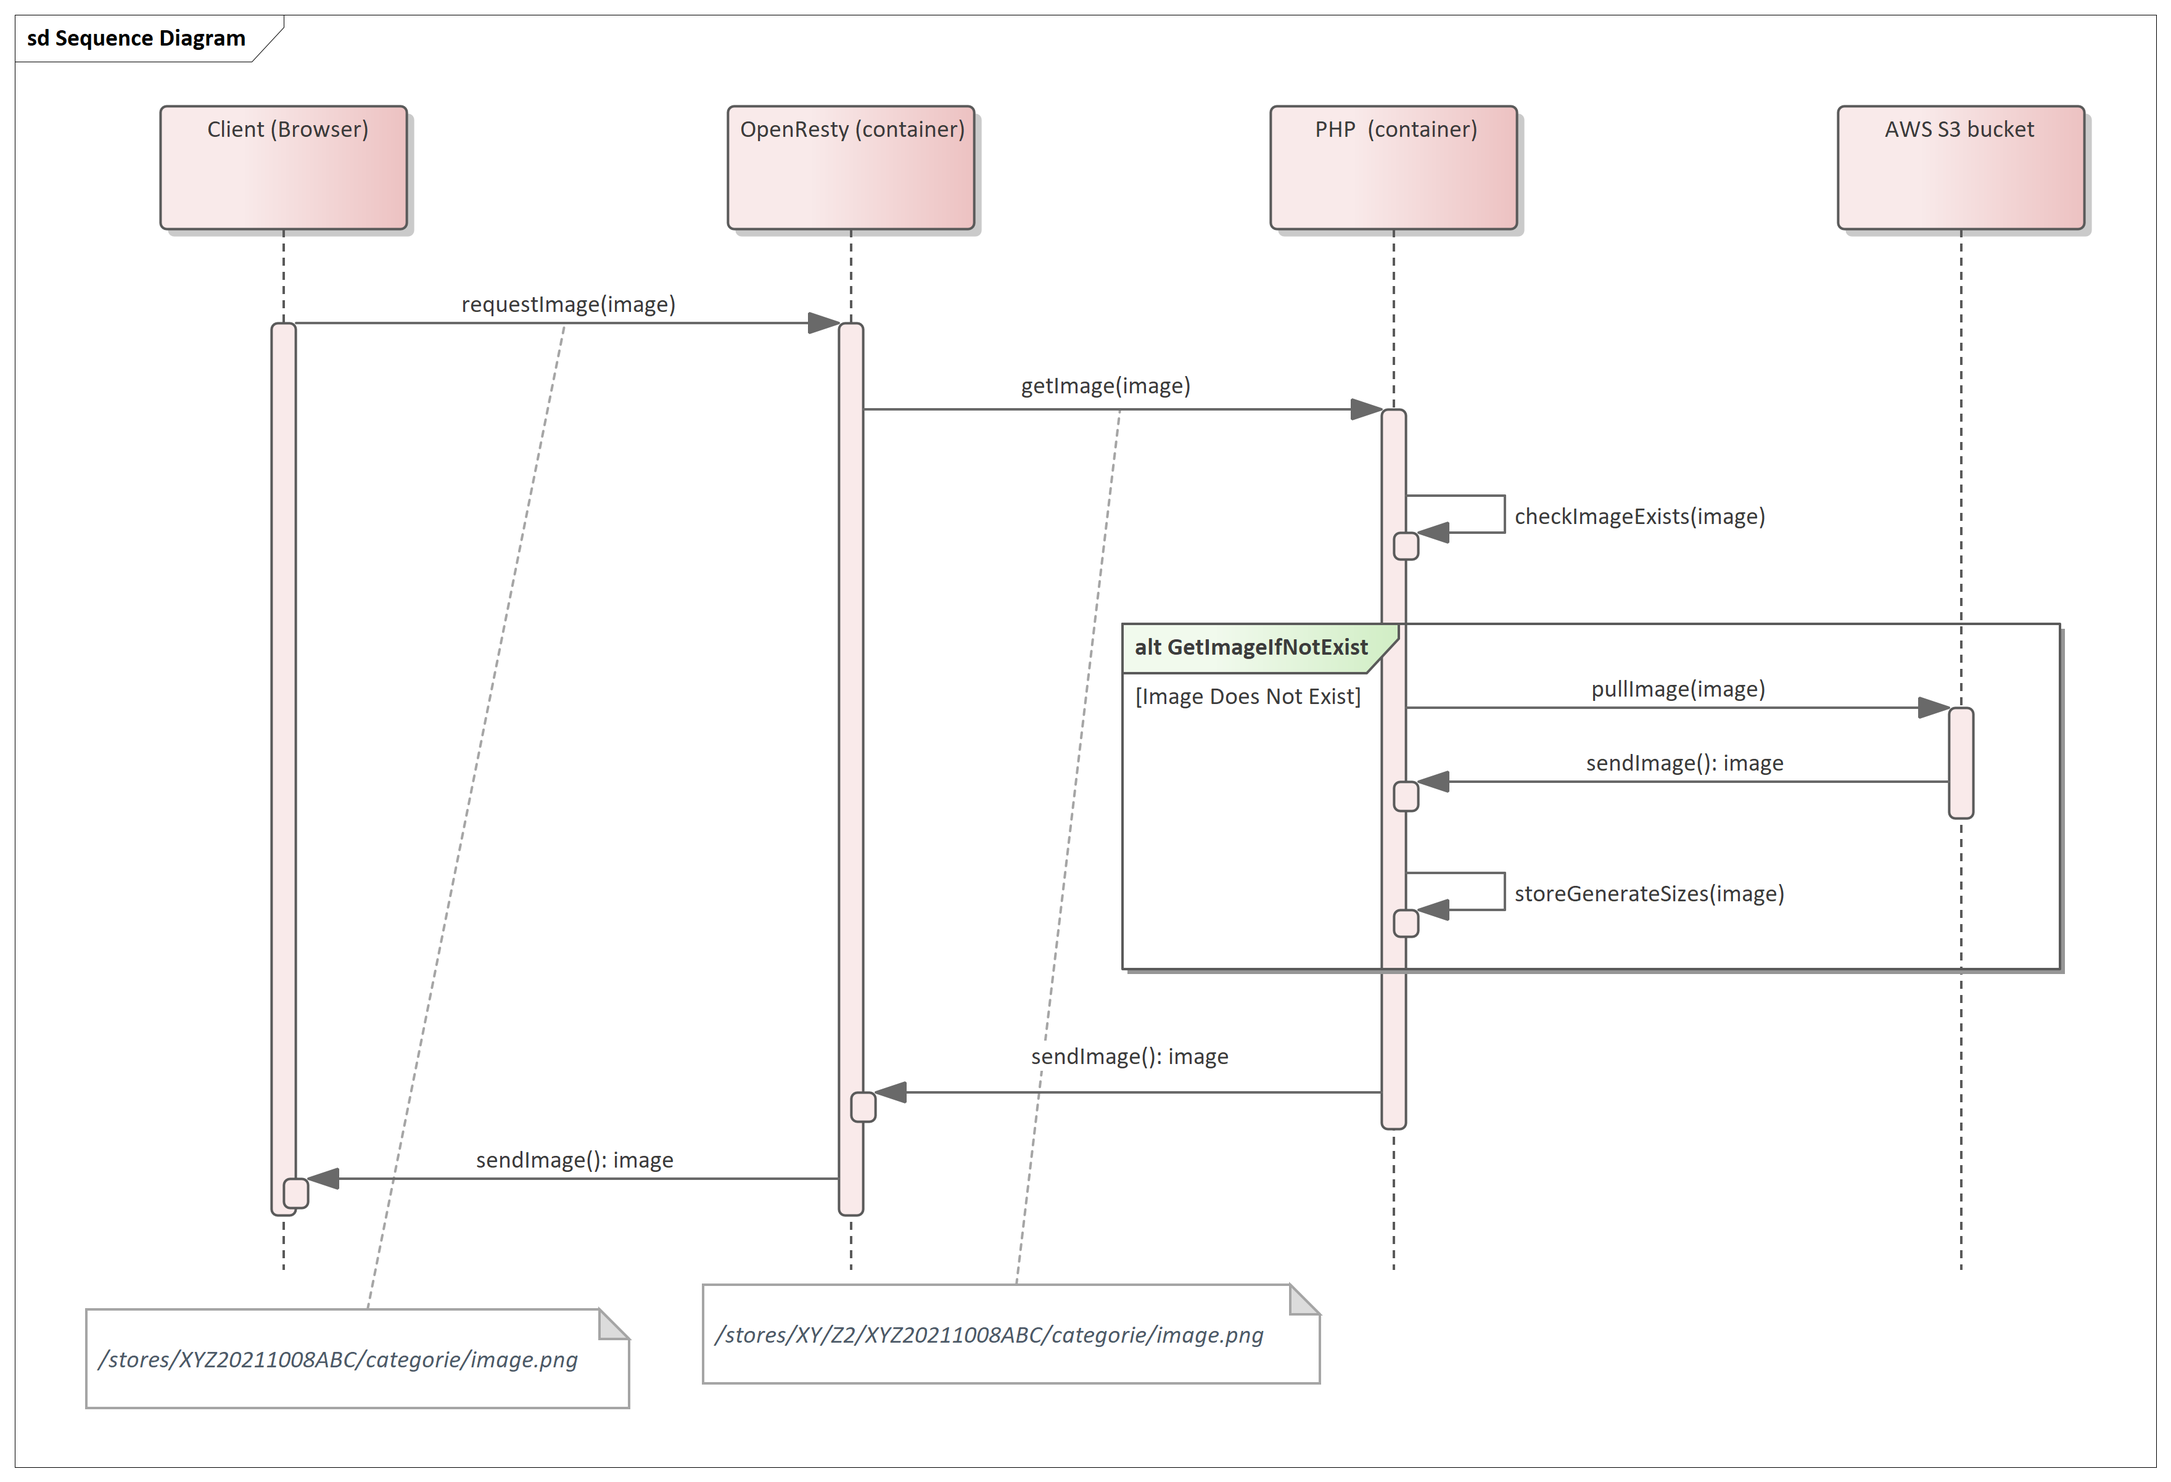
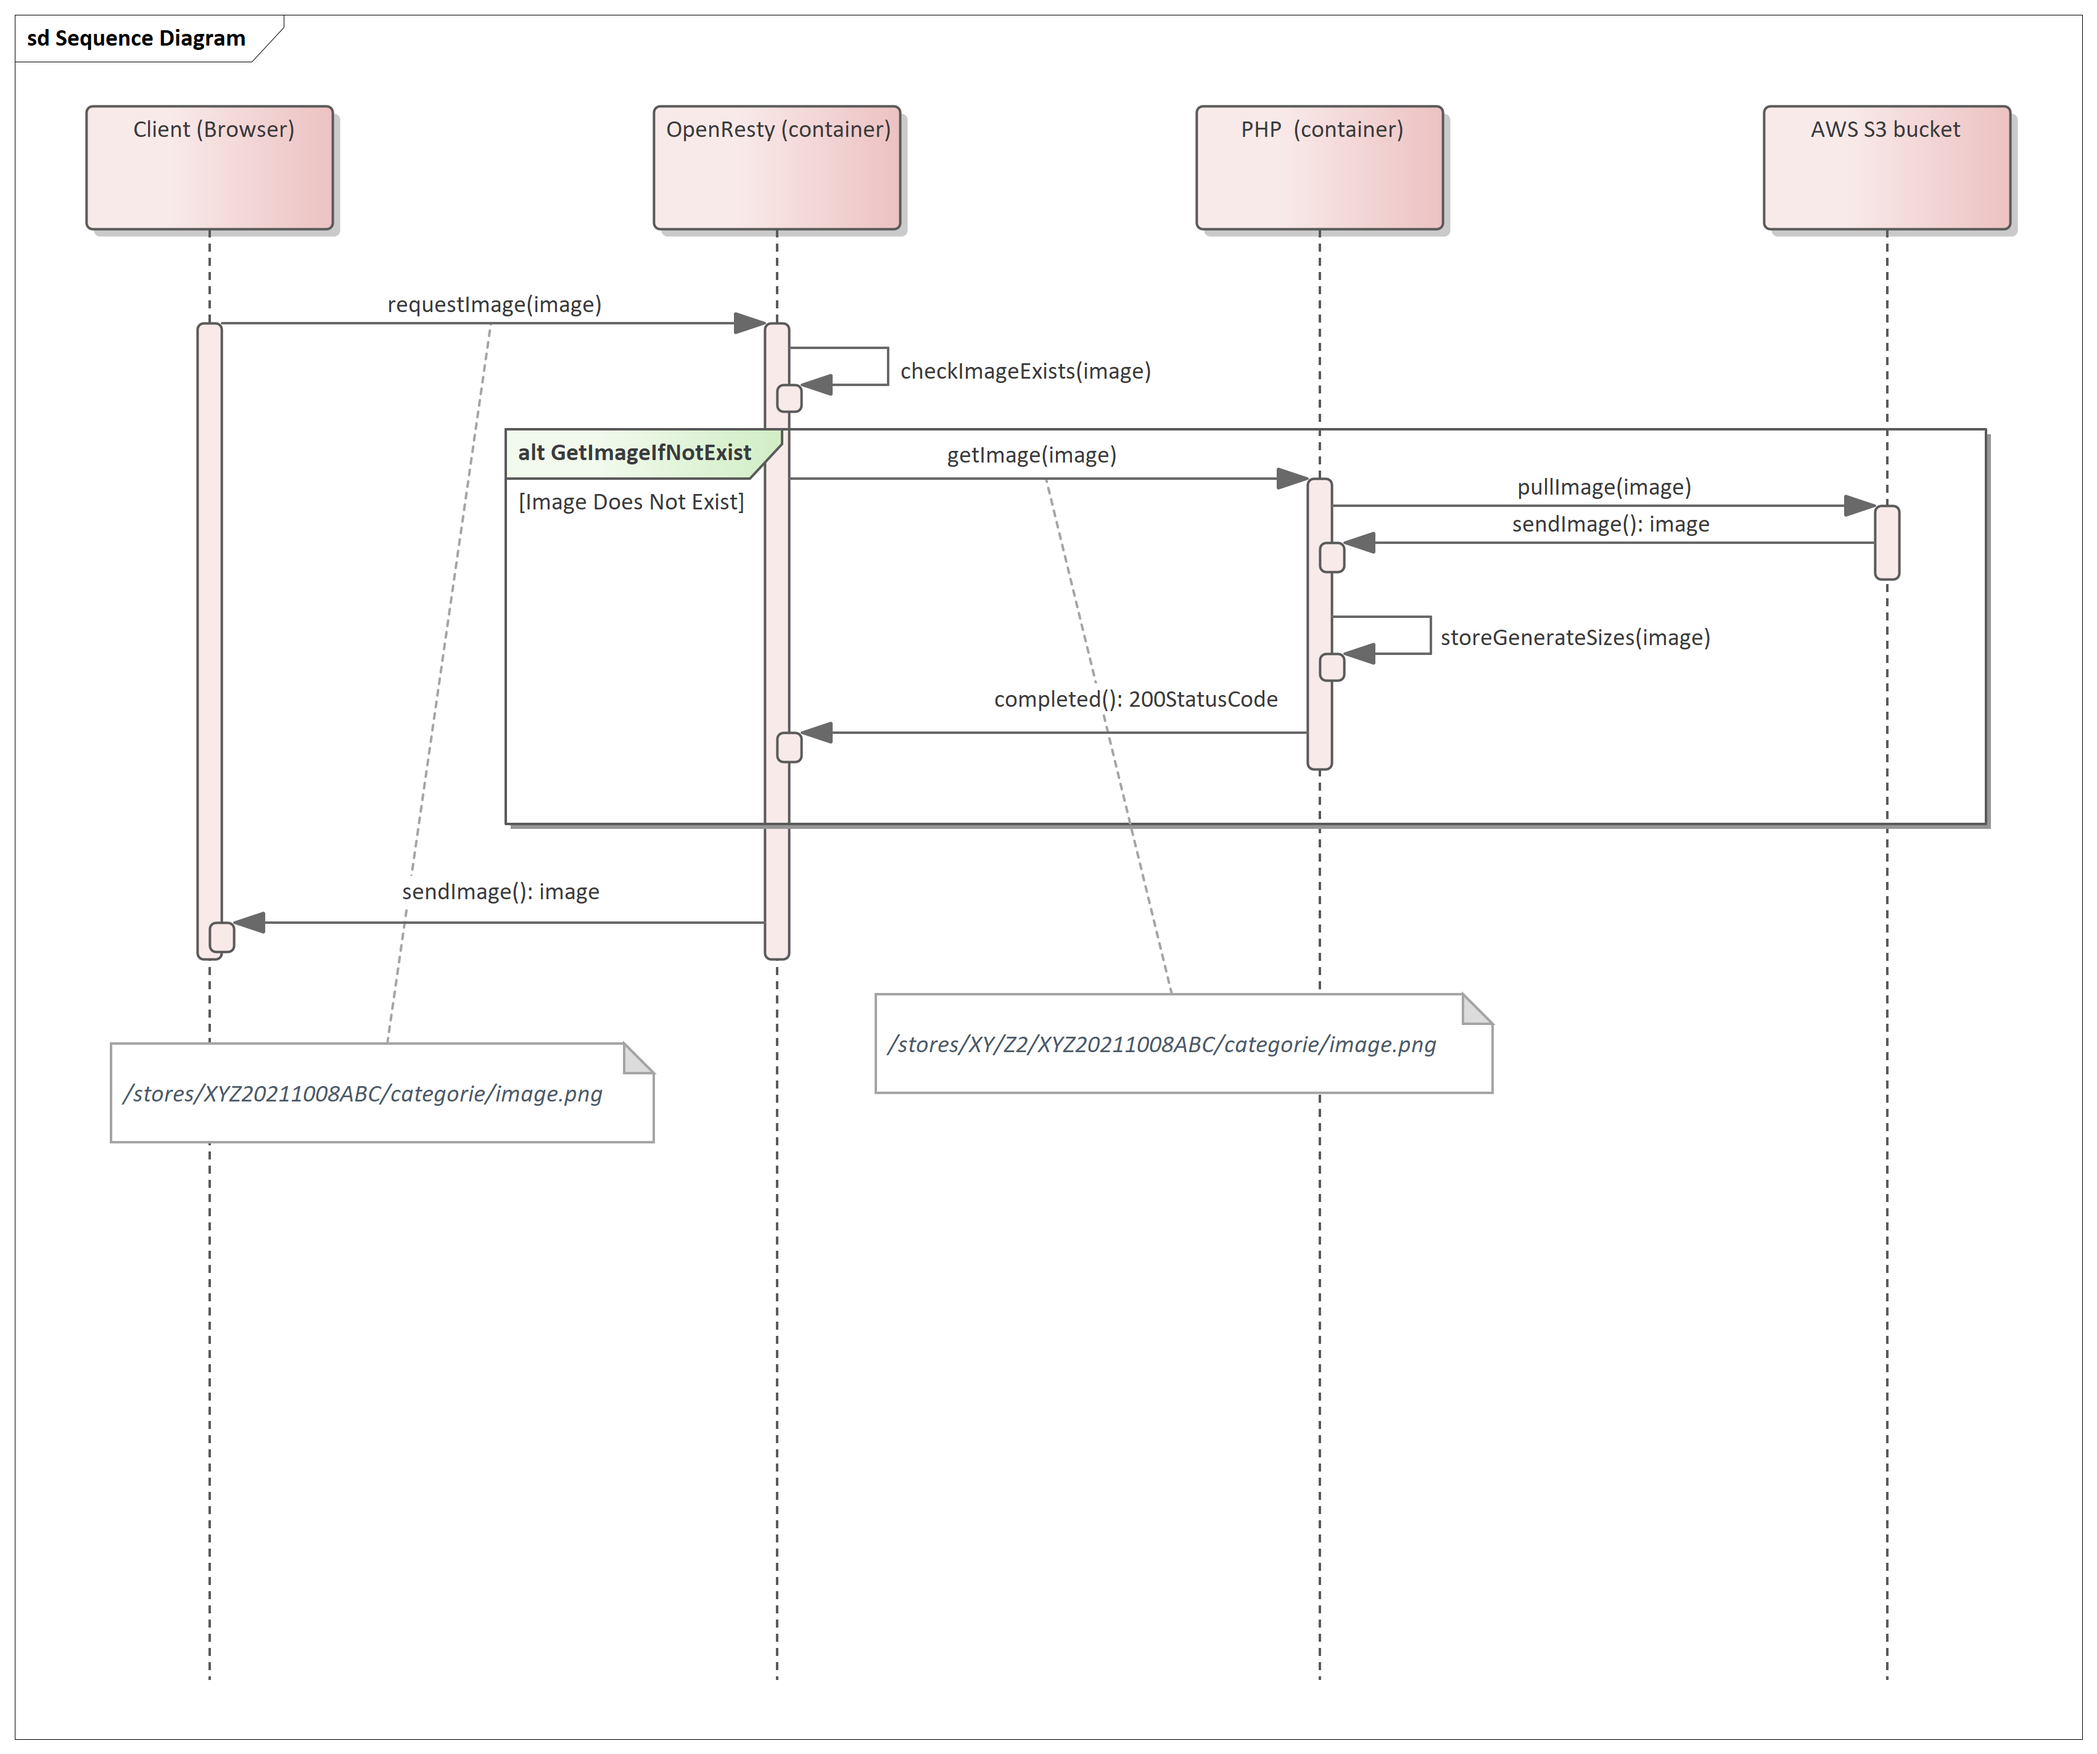
ch1: documentation

diff --git a/challenge-1/README.md b/challenge-1/README.md
@@ -38,15 +38,16 @@ Nginx doesn't support lua scripting so you can manipulate the coming request as 
 
 ## Requirements : 
 
-* having docker and docker compose installed
-* having ansible installed
-* having python3 
+* having docker and docker compose installed and the current user can use them.
+* having ansible installed.
+* having python3.
+* have sudo priviliges.
 
 
 ## Notes
 
-* supported images types : jpeg/jpg, png, bmp
-* in ansible `become: true`, is needed to install pip3, you can check that out for your case.
+* Supported images types : jpeg/jpg, png, bmp
+* In ansible, there is a [`become: true`](challenge-1\ansible\main.yaml), which is needed to install pip3, you can check that out by [👉clicking here](challenge-1\ansible\roles\install_packages\tasks\main.yaml).
 
 ## Usage
 
@@ -61,7 +62,7 @@ store-1/image.jpg
 store-2/image.jpg
 ```
 
-So the links you'll be using will look like this (respectively, and adding size suffix[-sm, -md, -lg] ) :
+So the links you'll be using will look like this (respectively, and after adding size suffixes [-sm, -md, -lg] ) :
 
 ```
 http://example.com/stores/abc-store/categorie/image-lg.jpg 
@@ -70,12 +71,23 @@ http://example.com/stores/store-1/categorie/image-sm.jpg
 http://example.com/stores/store-2/categorie/image-lg.jpg 
 ```
 
----
-**NOTE**
-The images on the S3 bucket are just put in a way to make it work, it can be always something else.
----
+
+    💡 The images on the S3 bucket are just put in a way to make it work, and to focus on the "CDN" part, it can be always done in another way.
 
 ## How does it work 
 
+<p align="center">
 <img src="assets/seq.png" width="800px" />
+</p>
 
+* The client sends a request to the openResty "CDN" (or reverse proxy ??) respecting the requested format `example.com/stores/XYZ20211008ABC/categorie/image-sm.png`
+
+* Using a Lua script i check if the image exists, if it is not, i sent an HTTP GET request to the `php-app` which will get the original uploaded image `stores/XYZ20211008ABC/categorie/image.png`, make diffrent sizes out of it. Then it stores the three sizes in a mounted directory `/stores`, and finally sends a 200-OK status code back to the Lua script.
+
+* The same directory `/stores` is also mounted to the OpenResty contaier, the lua script returns the image back to the client.
+
+* That's it 🦆
+
+
+
+?>
